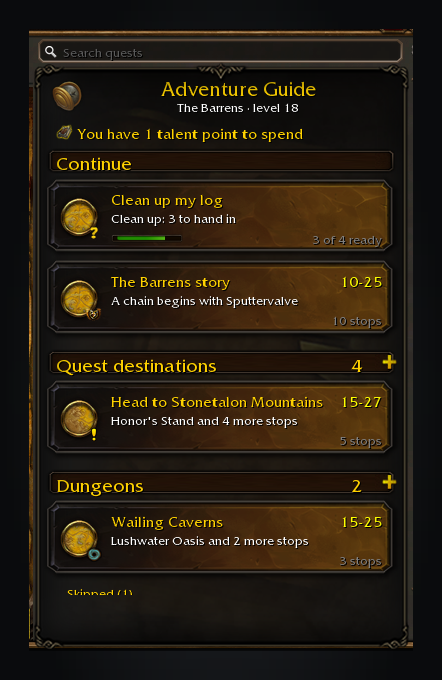
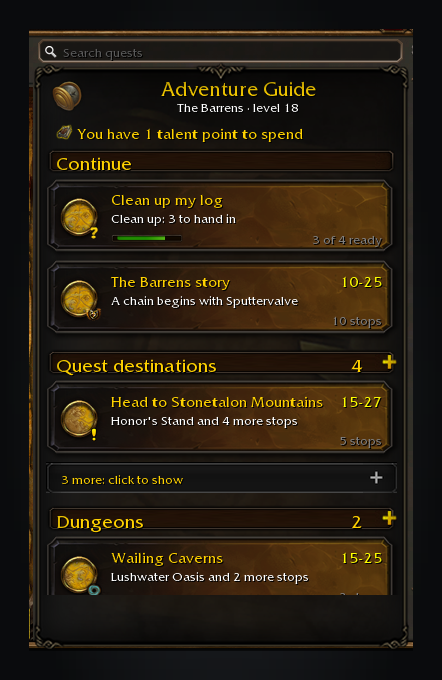
feat(overview): say how many cards a folded header hides
A folded overview header now draws a row under its last visible card that says how many cards the fold hides ("6 more: click to show"). Clicking it opens the header in place. The count comes from the same `Overview.Open` rule that picks the visible cards, so the row and the list always agree. The phrase is in every shipped locale.

Closes #494

Claude-Session: https://claude.ai/code/session_01UkMWs1LXKRuu9ztwwGXkgh

Changed region(s): [[0.0882, 0.6794, 0.9118, 0.8956]]

diff --git a/CHANGELOG.md b/CHANGELOG.md
@@ -12,6 +12,8 @@ optional `### For addon authors` subsection after a version's player bullets.
 
 ## [Unreleased]
 
+- **A folded list now says how many more cards it hides.** A collapsed header such as Quest destinations showed only its first card and a small "+", so the rest were easy to miss. A row under the last visible card now reads "6 more: click to show", and a click opens the header in place without moving the panel or your scroll position. Reported in game (#494).
+
 ## [1.1.18] - 2026-11-08
 
 - **Your route no longer walks past near-level work to a quest several levels above you.** A stop where every quest is past your "Maximum quest level above yours" setting, with no ready hand-in, now waits behind the stops you can work on now, so a green quest and a ready hand-in lead a red, optional quest already in your log. Within each tier the rest of the order is unchanged. Thanks to starkovsky for the report (#474).
